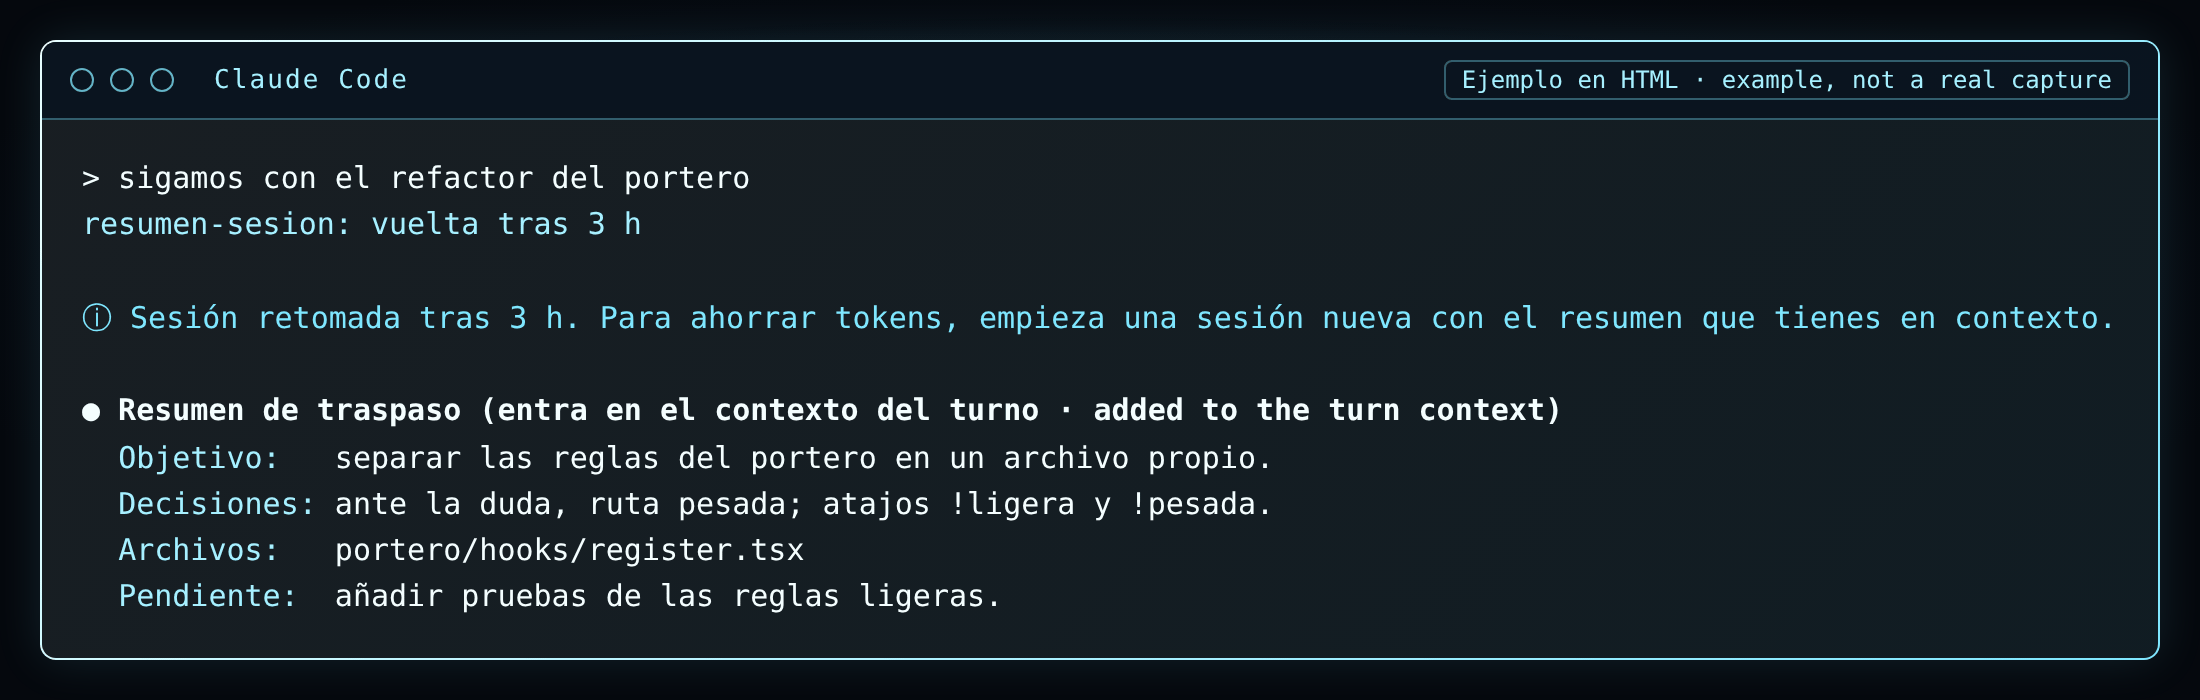
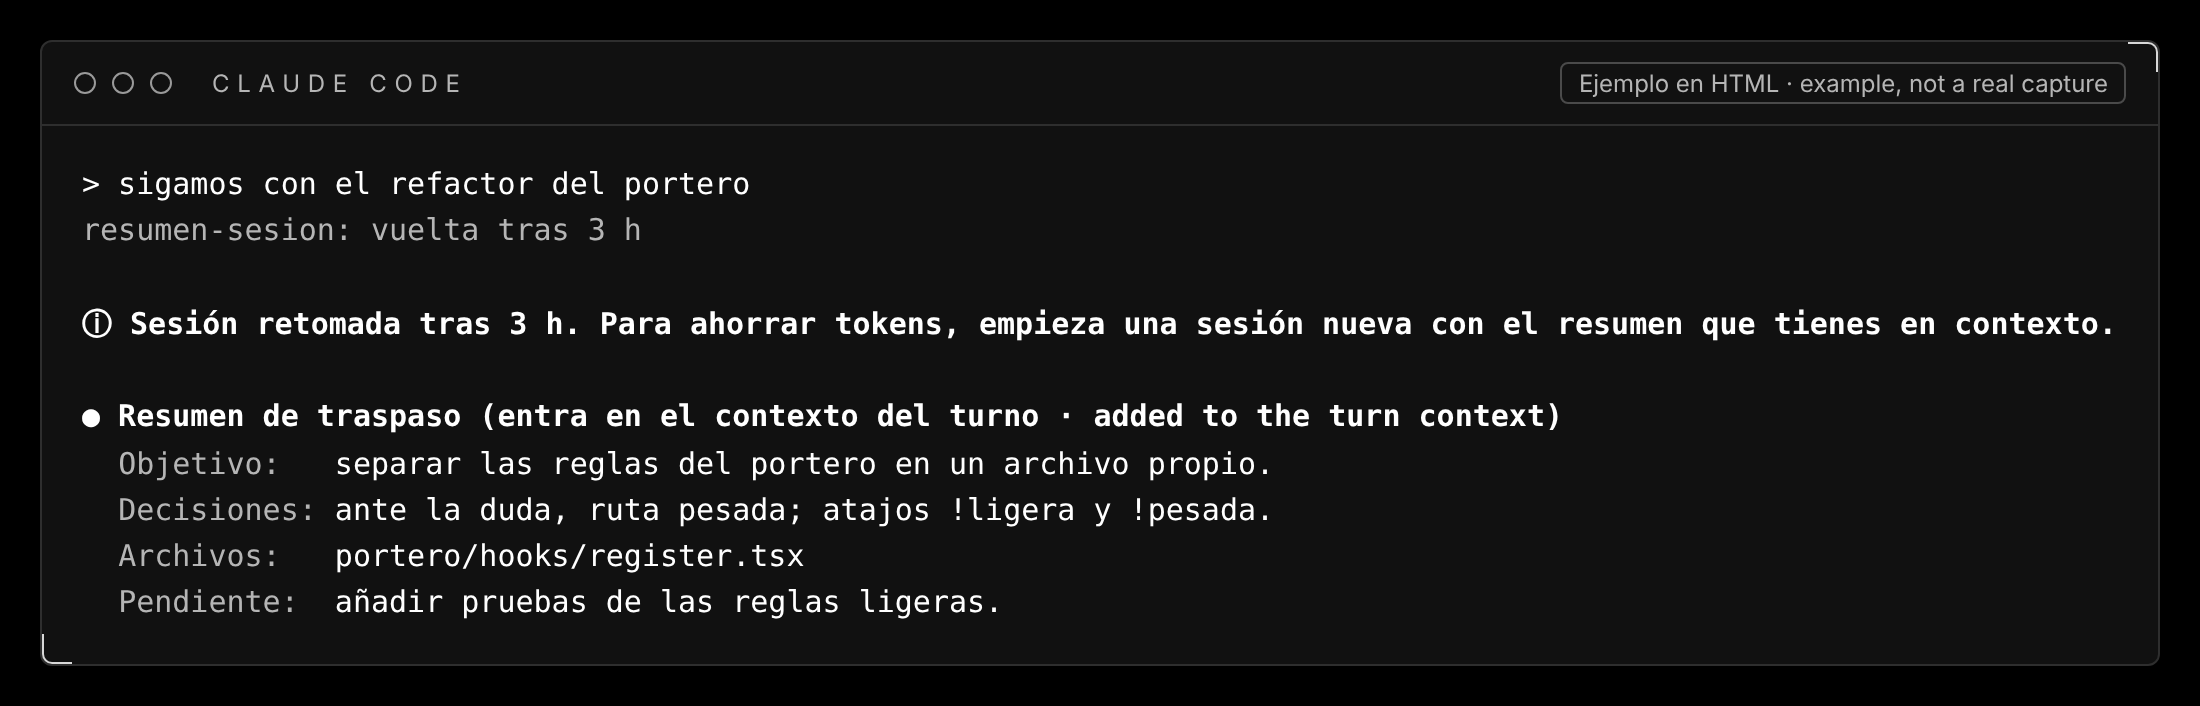
Imágenes del pack en estética monocroma
Claude-Session: https://claude.ai/code/session_01GTQ6uXB2achPbvC2MLVFVT

diff --git a/README.md b/README.md
@@ -5,10 +5,10 @@
 <p align="center"><b>Cinco mods para Claude Code con estilo J.A.R.V.I.S.: reparten el trabajo entre modelos, muestran el consumo y te dicen en qué está la sesión.</b></p>
 
 <p align="center">
-  <a href="LICENSE"><img alt="Licencia MIT" src="https://img.shields.io/badge/licencia-MIT-22d3ee"></a>
-  <a href="https://docs.claude.com/en/docs/claude-code"><img alt="Claude Code" src="https://img.shields.io/badge/Claude%20Code-mods-d97757"></a>
-  <a href="CHANGELOG.md"><img alt="Versión 0.3.0" src="https://img.shields.io/badge/versi%C3%B3n-0.3.0-64748b"></a>
-  <a href="CONTRIBUTING.md"><img alt="Contribuciones bienvenidas" src="https://img.shields.io/badge/contribuciones-bienvenidas-34d399"></a>
+  <a href="LICENSE"><img alt="Licencia MIT" src="https://img.shields.io/badge/licencia-MIT-333333?labelColor=111111"></a>
+  <a href="https://docs.claude.com/en/docs/claude-code"><img alt="Claude Code" src="https://img.shields.io/badge/Claude%20Code-mods-333333?labelColor=111111"></a>
+  <a href="CHANGELOG.md"><img alt="Versión 0.3.0" src="https://img.shields.io/badge/versi%C3%B3n-0.3.0-333333?labelColor=111111"></a>
+  <a href="CONTRIBUTING.md"><img alt="Contribuciones bienvenidas" src="https://img.shields.io/badge/contribuciones-bienvenidas-333333?labelColor=111111"></a>
 </p>
 
 <p align="center"><b>Español</b> · <a href="#en">English</a></p>
